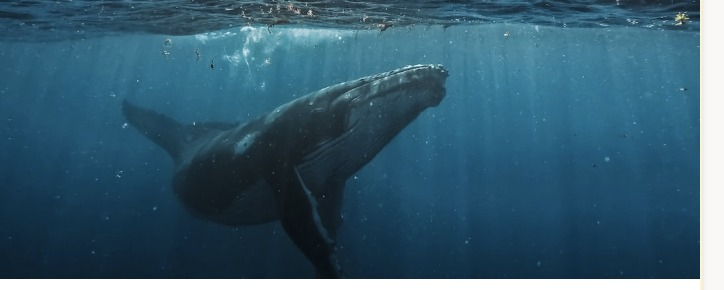
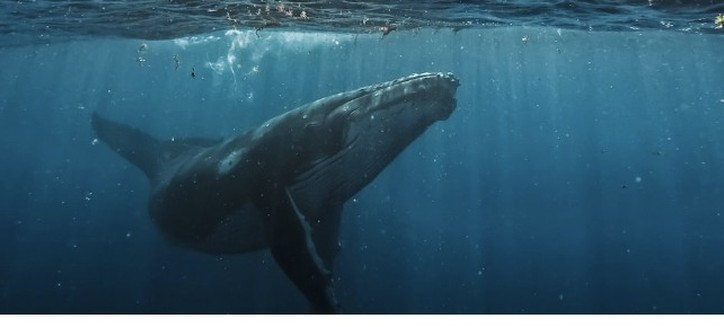
Standardize experience card image tiles to a uniform size.
Use a fixed aspect-ratio frame on Experiences and normalize all experience photos to 724x327.

diff --git a/src/pages/Experiences.tsx b/src/pages/Experiences.tsx
@@ -121,11 +121,13 @@ export default function Experiences() {
                 key={exp.name}
                 className="overflow-hidden rounded-xl border border-gold-100 bg-white shadow-sm transition hover:shadow-md"
               >
-                <img
-                  src={exp.image}
-                  alt={exp.name}
-                  className="h-44 w-full object-cover"
-                />
+                <div className="aspect-[724/327] w-full overflow-hidden bg-forest-900/5">
+                  <img
+                    src={exp.image}
+                    alt={exp.name}
+                    className="block h-full w-full object-cover"
+                  />
+                </div>
                 <div className="p-4">
                   <span
                     className={`inline-block rounded-full px-3 py-1 text-[11px] font-semibold ${categoryBadgeStyles[exp.category]}`}
